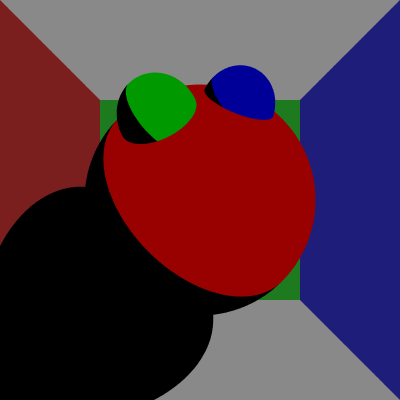
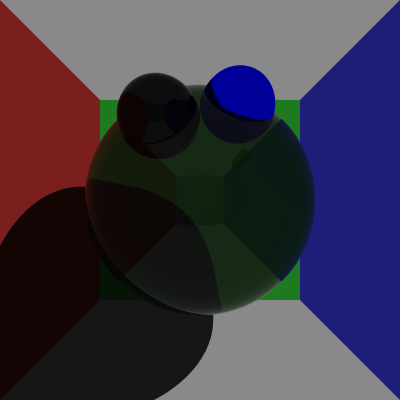
CS148:HW4: updated

Changed region(s): [[0.21, 0.18, 0.81, 0.81], [0.3, 0.66, 0.36, 0.72], [0.24, 0.57, 0.27, 0.6]]

diff --git a/CS148/HW/hw4/HW4-starter-code/src/Scene.cpp b/CS148/HW/hw4/HW4-starter-code/src/Scene.cpp
@@ -68,8 +68,11 @@ Vector3d Scene::trace(const Ray &ray, const int &depth) {
 
     float bias = 1e-4;
     bool inside = false;
+
+    // make sure normal and ray direction are on the same side
     if((ray.direction).dot(r.normal) > 0) {
-        
+        inside = true;
+        r.normal = -r.normal;
     }
 
 #if DEBUG
@@ -82,7 +85,8 @@ Vector3d Scene::trace(const Ray &ray, const int &depth) {
         float costheta = (-ray.direction).dot(r.normal);
         float F0 = 0.1;
         float fresneleffect = F0 + (1 - F0) * pow(1 - costheta, 5);
-        Vector3d reflectDir = (ray.direction - r.normal * 2 * ((ray.direction).dot(r.normal))).normalized();
+
+        Vector3d reflectDir = (ray.direction + r.normal * 2 * costheta).normalized();
 
         Ray reflectRay;
         reflectRay.origin = r.position + r.normal * bias;
@@ -104,6 +108,21 @@ Vector3d Scene::trace(const Ray &ray, const int &depth) {
         // refraction
         Vector3d refractionColor;
         refractionColor[0] = refractionColor[1] = refractionColor[2] = 0;
+
+        if (r.m.transparency) {
+            float ior = 1.1;
+            float eta = (inside) ? ior : 1 / ior; // are we inside or outside the surface?
+            float cosi = -(r.normal).dot(ray.direction);
+            float k = 1 - eta * eta * (1 - cosi * cosi);
+            Vector3d refractDir = (ray.direction) * eta + (r.normal) * (eta *  cosi - sqrt(k));
+            refractDir.normalized();
+
+            Ray refractRay;
+            refractRay.origin = r.position - r.normal * bias;
+            refractRay.direction = refractDir;
+
+            refractionColor = trace(refractRay, depth + 1);
+        }
 
         Vector3d combinedColor = (
             reflectColor * fresneleffect +
@@ -130,14 +149,14 @@ Vector3d Scene::trace(const Ray &ray, const int &depth) {
         bool iblock = CheckBlock(lightPos, mordifiedHitPos);
         if(iblock) {
             dot = 0;
-        }
+        }     
 
         // diffuse
         float diffuse = dot ? r.m.kd : 0;
 
-        result[0] = dot ? (r.m.ka + diffuse) * r.m.surfaceColor[0] : 0;
-        result[1] = dot ? (r.m.ka + diffuse) * r.m.surfaceColor[1] : 0;
-        result[2] = dot ? (r.m.ka + diffuse) * r.m.surfaceColor[2] : 0;
+        result[0] = (r.m.ka + diffuse) * r.m.surfaceColor[0];
+        result[1] = (r.m.ka + diffuse) * r.m.surfaceColor[1];
+        result[2] = (r.m.ka + diffuse) * r.m.surfaceColor[2];
 #if 0
         printf("diffuse %f  color %f %f %f\n", diffuse, result[0], result[1], result[2]);
 #endif

diff --git a/CS148/HW/hw4/HW4-starter-code/src/main.cpp b/CS148/HW/hw4/HW4-starter-code/src/main.cpp
@@ -9,33 +9,56 @@ using namespace std;
 using namespace Raytracer148;
 using namespace Eigen;
 
+#define PROBLEM4 1
+
 int main() {
     Image im(400, 400);
 
     Scene scene;
 
     Materials m;
-    m.reflection = 0.0;
-    m.surfaceColor = Eigen::Vector3d(1.0, 0, 0);
 
     Vector3d center;
     center[0] = 0;
     center[1] = 0;
     center[2] = 4;
+#if PROBLEM4
+    m.reflection = 1.0;
+    m.transparency = 0.5;
+    m.surfaceColor = Eigen::Vector3d(0.99, 0.99, 0.99);
+#else
+    m.surfaceColor = Eigen::Vector3d(1.0, 0, 0);
+    m.reflection = 0.0;
+#endif
     scene.addShape(new Sphere(center, 2, m));
 
     center[0] = -.5;
     center[1] = 1;
     center[2] = 2.5;
+
+#if PROBLEM4
+    m.reflection = 1.0;
+    m.transparency = 0.0;
+    m.surfaceColor = Eigen::Vector3d(0.99, 0.99, 0.99);
+#else
     m.surfaceColor = Eigen::Vector3d(0.0, 1.0, 0);
     m.reflection = 0.0;
+#endif
     scene.addShape(new Sphere(center, .5, m));
 
     center[0] = .5;
     center[1] = 1.25;
     center[2] = 2.75;
+
+#if 0
+    m.reflection = 1.0;
+    m.transparency = 0.0;
+    m.surfaceColor = Eigen::Vector3d(0.99, 0.99, 0.99);
+#else
     m.surfaceColor = Eigen::Vector3d(0.0, 0.0, 1.0);
     m.reflection = 0.0;
+    m.transparency = 0.0;
+#endif
     scene.addShape(new Sphere(center, .5, m));
 
     // Setup Wall
@@ -60,6 +83,10 @@ int main() {
     // Back Wall
     wallM.surfaceColor = Eigen::Vector3d(0.2f, 0.8f, 0.2f);
     scene.addShape(new Wall(Value, 5, wallM));
+
+    // Front Wall
+    wallM.surfaceColor = Eigen::Vector3d(0.5f, 0.5f, 0.5f);
+    scene.addShape(new Wall(-Value, 5, wallM));
 
     scene.render(im);
 
